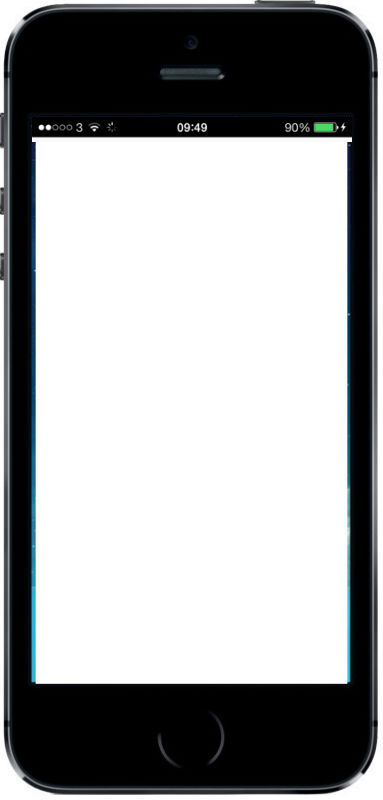
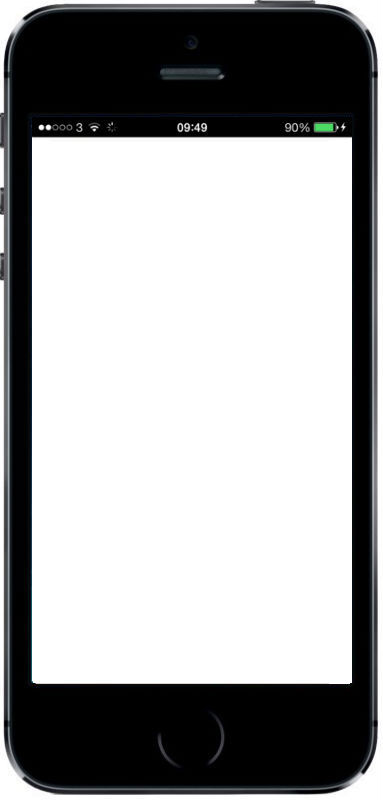
Rijig emulator page

Changed region(s): [[0.8903, 0.1562, 0.9191, 0.875], [0.0862, 0.1875, 0.1149, 0.8438]]

diff --git a/public/emulator.html b/public/emulator.html
@@ -1,0 +1,93 @@
+<!doctype html>
+
+<html ng-app="app">
+  <head>
+    <title>Cinefile - Classic Movies in London</title>
+    <meta http-equiv="cleartype" content="on">
+    <link href="/css/styles.css" rel="stylesheet">
+    <style>
+      .center {
+         width: 320px;
+         height: 568px;
+         position: absolute;
+         left: 50%;
+         top: 50%; 
+         margin-left: -162px;
+         margin-top: -263px;
+      }
+      .frame {
+         background: url("/images/iphone.jpg") no-repeat;
+         width: 388px;
+         height: 800px;
+         position: absolute;
+         left: 50%;
+         top: 50%; 
+         margin-left: -191px;
+         margin-top: -408px;
+         z-index: -100;
+      }
+
+      div.message {
+          margin-top: 200px;
+          width: 30%;
+          position: absolute;
+      }
+
+      .left.message h2,.left.message h3 {
+          margin-left:40px;
+      }
+
+      div.right.message {
+          right: 40px;
+      }
+
+      .right.message h2,.right.message h3 {
+          text-align: right;
+      }
+
+      body {
+          width: 100%;
+      }
+
+      .link {
+          color: #111188;
+      }
+
+        .frame {
+         top: 180px; 
+         margin-top:0px;
+       }
+
+        div.message {
+          padding: 5px;
+          background-color: #0d9195;
+          color: white;
+          margin-top: 0px;
+          position: relative;
+          width: 100%;
+        }
+        .right h2,.right h3, .left h2,.left h3 {
+          text-align: center;
+        }
+    </style>
+  </head>
+  <body>
+    <div>
+      <div class="frame">
+        <div class="center">
+          <iframe width="320px" height="548px" src="/"></iframe>
+        </div>
+      </div>
+
+      <div class="message">
+        <div class="left">
+          <h2>Why not install Cinephile on your iPhone today? &mdash; Go to <span class="link">cinefile.herokuapp.com</span> in Mobile Safari and follow the instructions</h2>
+        </div>
+        <div class="right">
+          <h2>Tell us what you think about Cinephile &mdash; Win <a class="link" href="http://www.cinephile.me">2 free tickets</a> to a film of your choosing</h2>
+        </div>
+    </div>
+    </div>
+  </body>
+</html>
+

diff --git a/public/css/styles.css b/public/css/styles.css
@@ -8,29 +8,6 @@ body {
   width: 320px;
 }
 
-@media only screen {
-    .frame {
-       background: url("/images/iphone.jpg") no-repeat;
-       width: 388px;
-       height: 800px;
-       position: absolute;
-       left: 50%;
-       top: 50%; 
-       margin-left: -191px;
-       margin-top: -408px;
-       z-index: -100;
-    }
-
-    .center {
-       width: 320px;
-       height: 568px;
-       position: absolute;
-       left: 50%;
-       top: 50%; 
-       margin-left: -162px;
-       margin-top: -263px;
-    }
-}
 
 .topcoat-icon,
 .topcoat-icon--large {
@@ -49,11 +26,6 @@ body {
   height: 2.499999998125rem;
   top: -2px;
 }
-
-div {
-  width: 320px;
-}
-  
 
 a {
   text-decoration: none;
